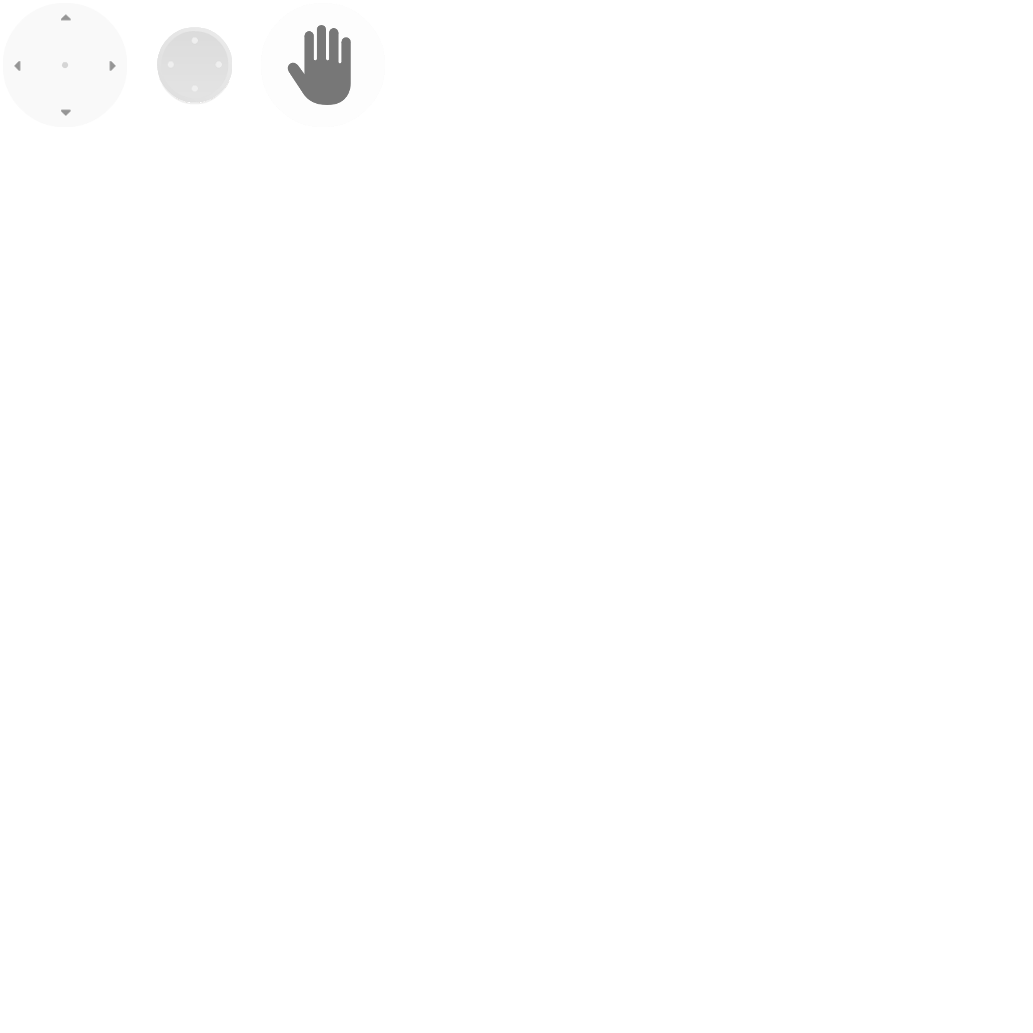
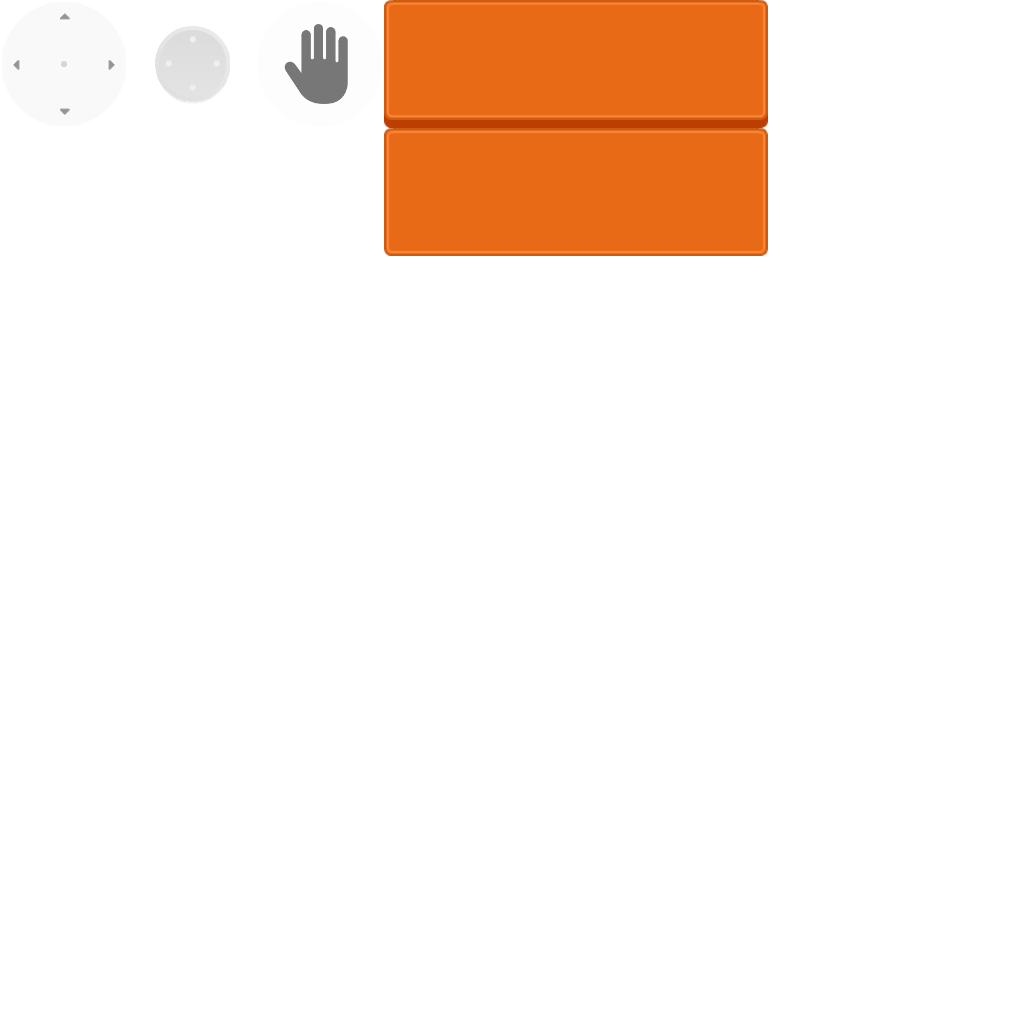
Added non-square buttons /w render

Changed region(s): [[0.375, 0.0, 0.75, 0.25]]

diff --git a/src/render/gui/GuiButtonRender.h b/src/render/gui/GuiButtonRender.h
@@ -13,6 +13,34 @@ class GuiButtonRender : public GuiElementRender {
 public:
     GuiButtonRender(const string &textureFile, const string &shader) : GuiElementRender(textureFile, shader) { }
 
+    void render(const GuiElement *const element, glm::mat4 projectionMatrix, glm::mat4 viewMatrix, double scale) override {
+        if (element->isVisible()) {
+            const GuiButton *const b = (const GuiButton *const) element;
+
+            this->texture.bindTexture(0);
+            this->shaderProgram.useProgram();
+            this->shaderProgram.setUniform("projectionMatrix", projectionMatrix);
+            this->shaderProgram.setUniform("gSampler", texture.getBoundId());
+
+            double ratio = b->getWidth()/b->getHeight();
+            for (int i = 0; i < ratio; i++) {
+                this->tmpModelMatrix = glm::translate(this->modelMatrix, glm::vec3(-(element->getX() + element->getHeight() * (i + 1)) * scale, -(element->getY() + element->getHeight()) * scale, 0.0f));
+                this->tmpModelMatrix = glm::scale(this->tmpModelMatrix, glm::vec3(element->getHeight() * scale, element->getHeight() * scale, 1.0f));
+                this->tmpModelMatrix = glm::rotate(this->tmpModelMatrix, 0.0f, glm::vec3(1.0f, 0.0f, 0.0f)); // Just a variation of first rotating
+
+                shaderProgram.setUniform("modelViewMatrix", viewMatrix * this->tmpModelMatrix);
+                int texXPos = i == 0 ? 0 : (i == (int)(ratio - 1) ? 2 : 1);
+                float x = (float) ((this->getTexPos(element) + texXPos) % atlasSize);
+                float y = (float) ((this->getTexPos(element) + texXPos) / atlasSize);
+                shaderProgram.setUniform("texPosX", x / atlasSize);
+                shaderProgram.setUniform("texPosY", y / atlasSize);
+
+                glBindVertexArray(this->vao);
+                glDrawArrays(GL_TRIANGLE_STRIP, 0, 4);
+            }
+        }
+    }
+
 protected:
     virtual int getTexPos(const GuiElement *const element) override {
         if (const GuiButton *const b = dynamic_cast<const GuiButton *const>(element)) {
